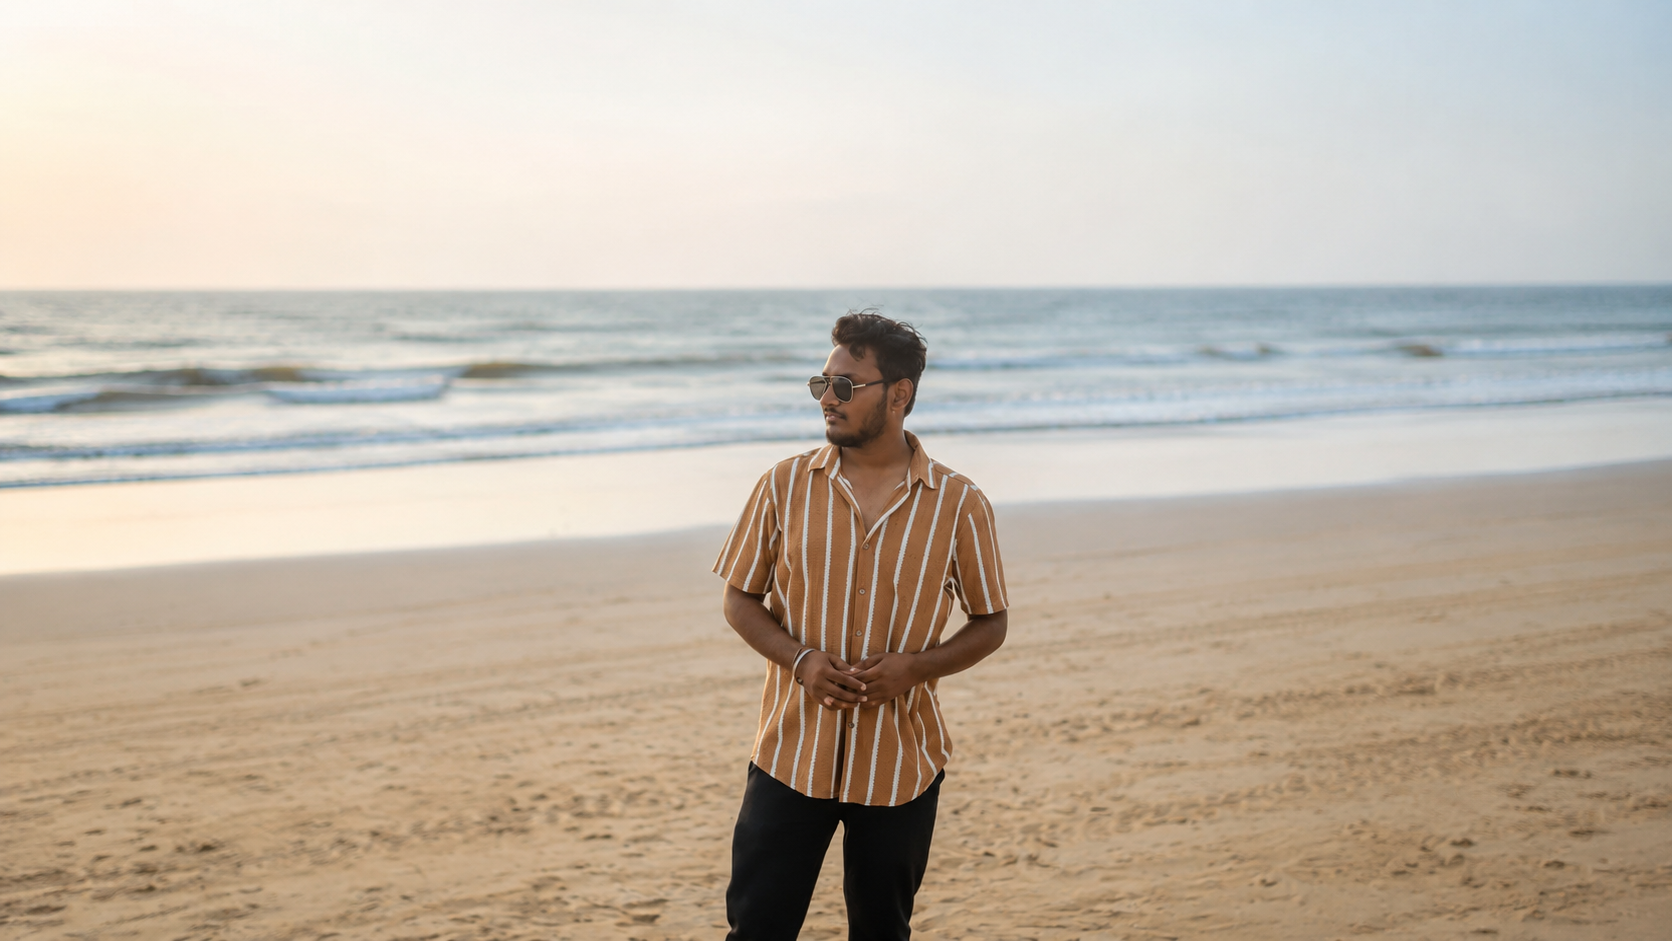
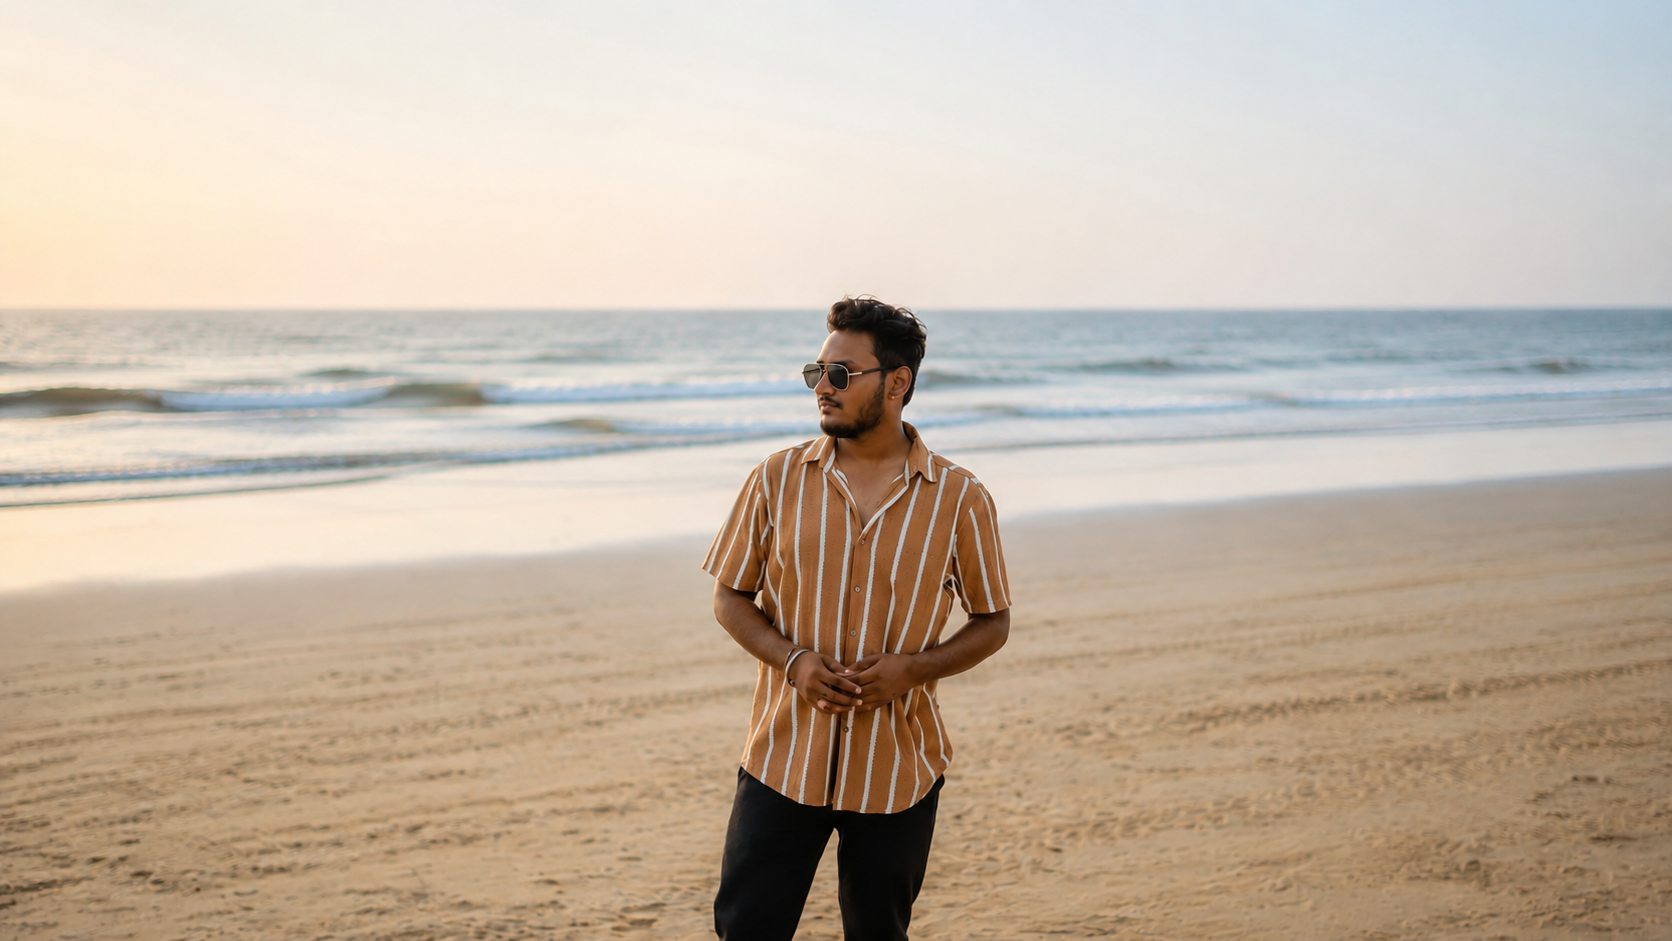
Make swiper slides fully clickable and user edits

diff --git a/index.html b/index.html
@@ -265,7 +265,7 @@
                         <div class="swiper-button-prev swiper-button hidden-xs style-2"></div>
                         <div class="swiper-button-next swiper-button hidden-xs style-2"></div>
                         <div class="swiper-wrapper">
-                            <div class="swiper-slide">
+                            <div class="swiper-slide" onclick="window.location.href='pages/pre-wedding.html';" style="cursor: pointer;">
                                 <img alt="" class="tilt-effect"
                                     data-tilt-options='{ "movement": { "perspective" : 700, "translateX" : -15, "translateY" : -15, "translateZ" : 10, "rotateX" : 2, "rotateY" : 10 } }'
                                     src="assets/img/HOME PAGE/PRE-WEDDING.jpeg" />
@@ -284,7 +284,7 @@
                                     </div>
                                 </div>
                             </div>
-                            <div class="swiper-slide">
+                            <div class="swiper-slide" onclick="window.location.href='pages/wedding.html';" style="cursor: pointer;">
                                 <img alt="" class="tilt-effect"
                                     data-tilt-options='{ "movement": { "perspective" : 700, "translateX" : -15, "translateY" : -15, "translateZ" : 10, "rotateX" : 2, "rotateY" : 10 } }'
                                     src="assets/img/HOME PAGE/ROYAL_WEEDING_640x960.jpeg" />
@@ -305,7 +305,7 @@
                                 </div>
                             </div>
 
-                            <div class="swiper-slide">
+                            <div class="swiper-slide" onclick="window.location.href='pages/portfolio-Showcase.html';" style="cursor: pointer;">
                                 <img alt="" class="tilt-effect"
                                     data-tilt-options='{ "movement": { "perspective" : 700, "translateX" : -15, "translateY" : -15, "translateZ" : 10, "rotateX" : 2, "rotateY" : 10 } }'
                                     src="assets/img/HOME PAGE/PORTFOLIO_640x960.jpeg" />
@@ -325,7 +325,7 @@
                                     </div>
                                 </div>
                             </div>
-                                                        <div class="swiper-slide">
+                                                        <div class="swiper-slide" onclick="window.location.href='pages/events.html';" style="cursor: pointer;">
                                 <img alt="" class="tilt-effect"
                                     data-tilt-options='{ "movement": { "perspective" : 700, "translateX" : -15, "translateY" : -15, "translateZ" : 10, "rotateX" : 2, "rotateY" : 10 } }'
                                     src="assets/img/HOME PAGE/event.jpeg" />
@@ -344,7 +344,7 @@
                                     </div>
                                 </div>
                             </div>
-                            <div class="swiper-slide">
+                            <div class="swiper-slide" onclick="window.location.href='pages/product.html';" style="cursor: pointer;">
                                 <img alt="" class="tilt-effect"
                                     data-tilt-options='{ "movement": { "perspective" : 700, "translateX" : -15, "translateY" : -15, "translateZ" : 10, "rotateX" : 2, "rotateY" : 10 } }'
                                     src="assets/img/background-20.jpeg" />
@@ -363,7 +363,7 @@
                                     </div>
                                 </div>
                             </div>
-                            <div class="swiper-slide">
+                            <div class="swiper-slide" onclick="window.location.href='pages/content-creation.html';" style="cursor: pointer;">
                                 <img alt="" class="tilt-effect"
                                     data-tilt-options='{ "movement": { "perspective" : 700, "translateX" : -15, "translateY" : -15, "translateZ" : 10, "rotateX" : 2, "rotateY" : 10 } }'
                                     src="assets/img/HOME PAGE/CONTENT_CREATION_640x960.jpeg" />
